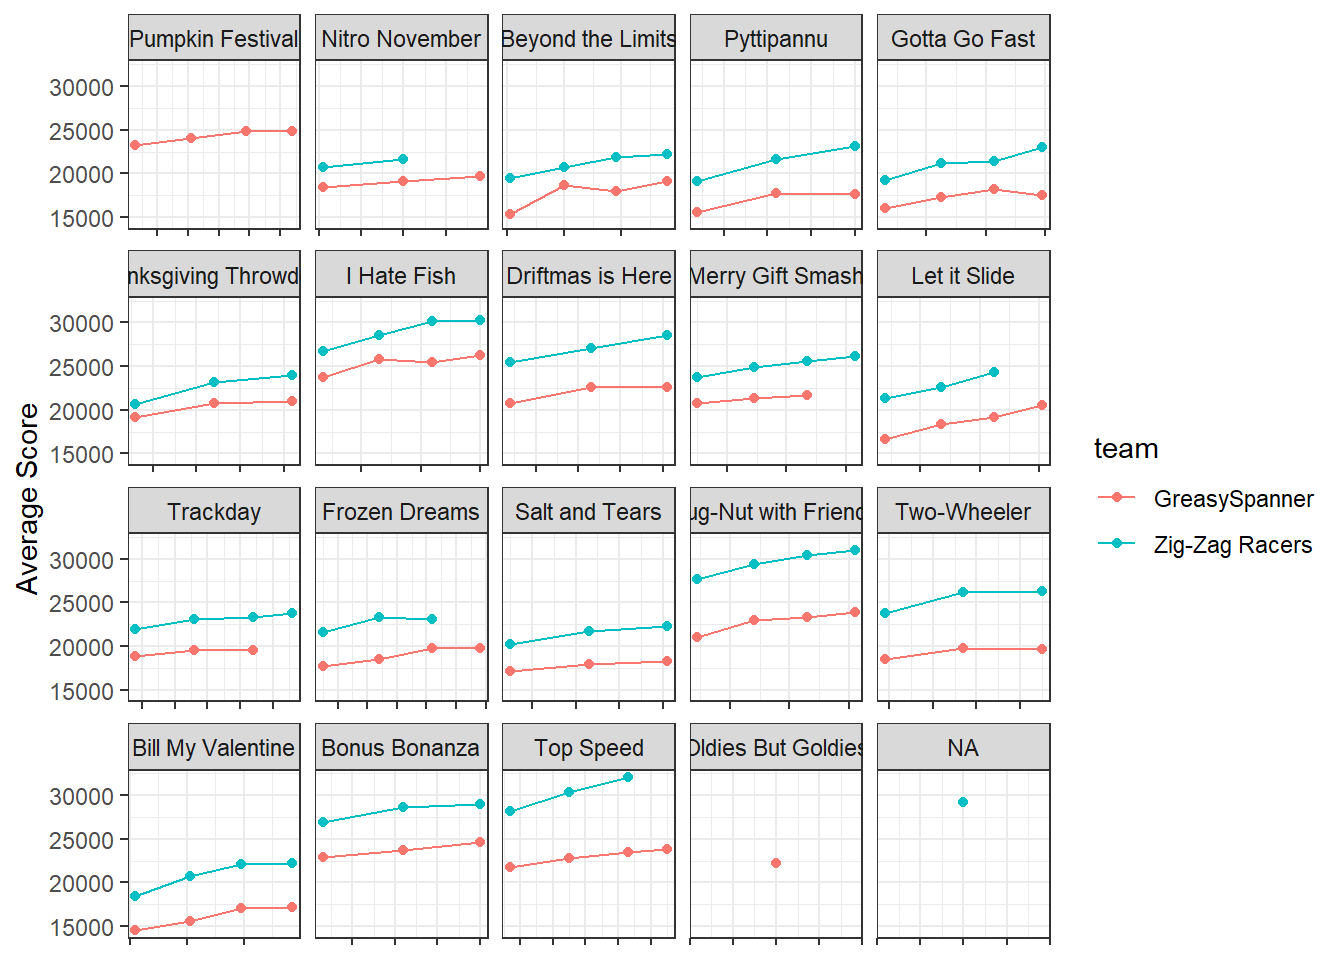
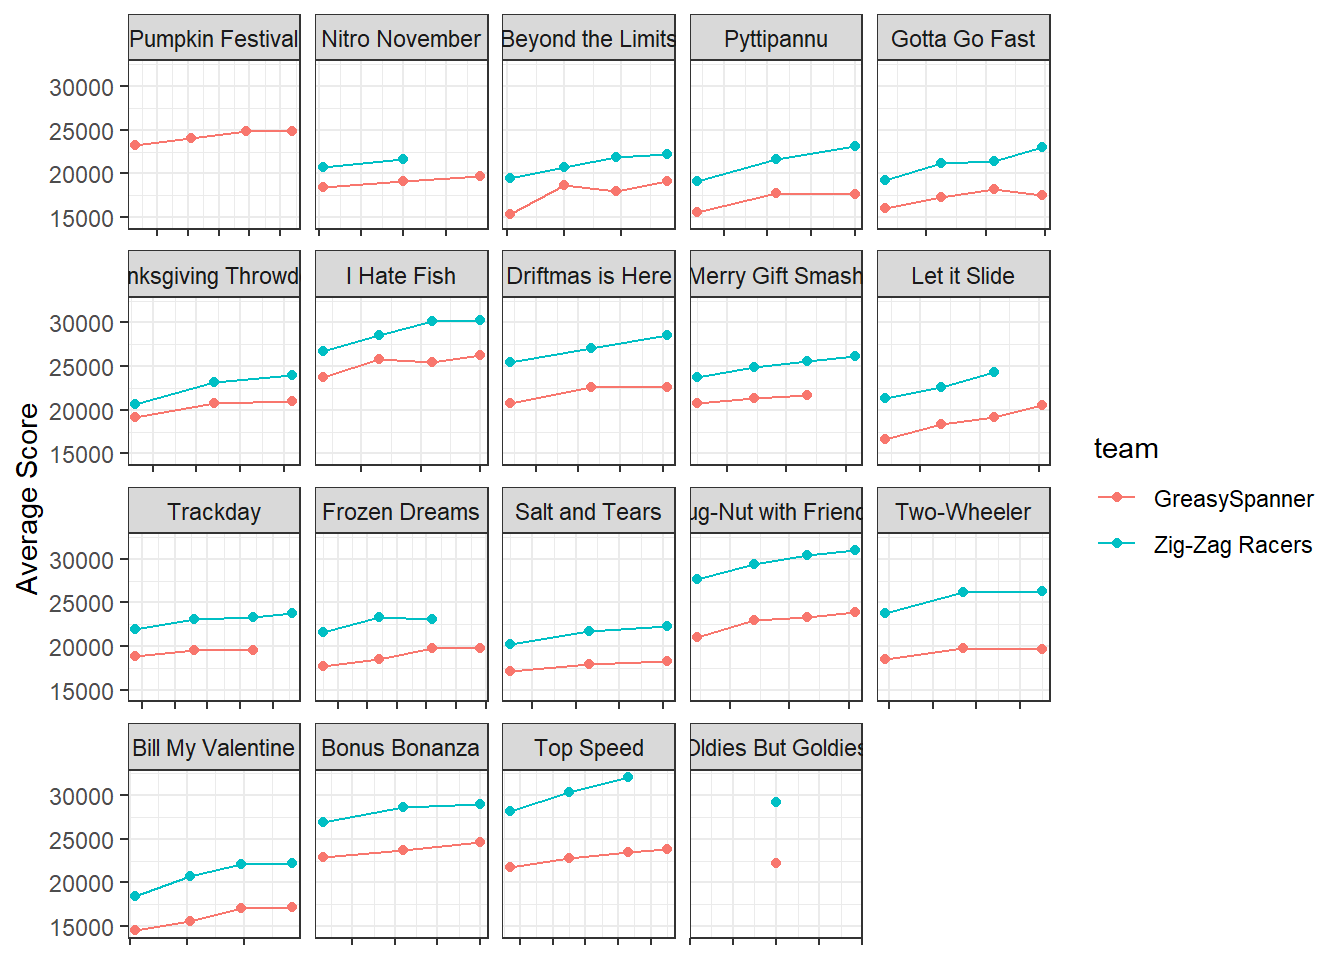
correct error linking sheets

Changed region(s): [[0.625, 0.75, 0.7812, 0.8125]]

diff --git a/content/project/zz_gs_player_report.html b/content/project/zz_gs_player_report.html
@@ -15,7 +15,7 @@ tags:
 <div id="all-time-results" class="section level2">
 <h2>All Time Results</h2>
 <p>The table below shows ranks players using a standardized score (see below) and also reports their all time average score. The table is based on matches up to:<br />
-Zig-Zag Racers match vs VR46 Team (Oldies but Goldies, round 1)<br />
+Zig-Zag Racers match vs VR46 Team (Oldies But Goldies, round 1)<br />
 GS match vs Dragon Ball-ix (Oldies But Goldies, round 1)</p>
 <table class="table table-striped" style="font-size: 11px; margin-left: auto; margin-right: auto;">
 <thead>

diff --git a/content/project/gs_player_report.html b/content/project/gs_player_report.html
@@ -16,7 +16,7 @@ tags:
 <div id="all-time-results" class="section level2">
 <h2>All Time Results</h2>
 <p>The table below shows ranks players using a standardized score (see below) and also reports their all time average score. The table is based on matches up to:<br />
-Zig-Zag RZR match vs VR46 Team (Oldies but Goldies, round 1)<br />
+Zig-Zag RZR match vs VR46 Team (Oldies But Goldies, round 1)<br />
 GS match vs Dragon Ball-ix (Oldies But Goldies, round 1)</p>
 <table class="table table-striped" style="font-size: 11px; margin-left: auto; margin-right: auto;">
 <thead>

diff --git a/content/project/zz_player_report.html b/content/project/zz_player_report.html
@@ -16,7 +16,7 @@ tags:
 <div id="all-time-results" class="section level2">
 <h2>All Time Results</h2>
 <p>The table below shows ranks players using a standardized score (see below) and also reports their all time average score. The table is based on matches up to:<br />
-Zig-Zag RZR match vs VR46 Team (Oldies but Goldies, round 1)<br />
+Zig-Zag RZR match vs VR46 Team (Oldies But Goldies, round 1)<br />
 GS match vs Dragon Ball-ix (Oldies But Goldies, round 1)</p>
 <table class="table table-striped" style="font-size: 11px; margin-left: auto; margin-right: auto;">
 <thead>

diff --git a/content/project/zz_gs_recent_player_report.html b/content/project/zz_gs_recent_player_report.html
@@ -13,7 +13,7 @@ tags:
 
 
 <p>The table below shows which players have scored best in the last 15 matches, ranked according to a standardized score (see below). The table is based on matches up to:<br />
-Zig-Zag Racers match vs VR46 Team (Oldies but Goldies, round 1)<br />
+Zig-Zag Racers match vs VR46 Team (Oldies But Goldies, round 1)<br />
 GS match vs Dragon Ball-ix (Oldies But Goldies, round 1)</p>
 <table class="table table-striped" style="font-size: 11px; margin-left: auto; margin-right: auto;">
 <thead>
